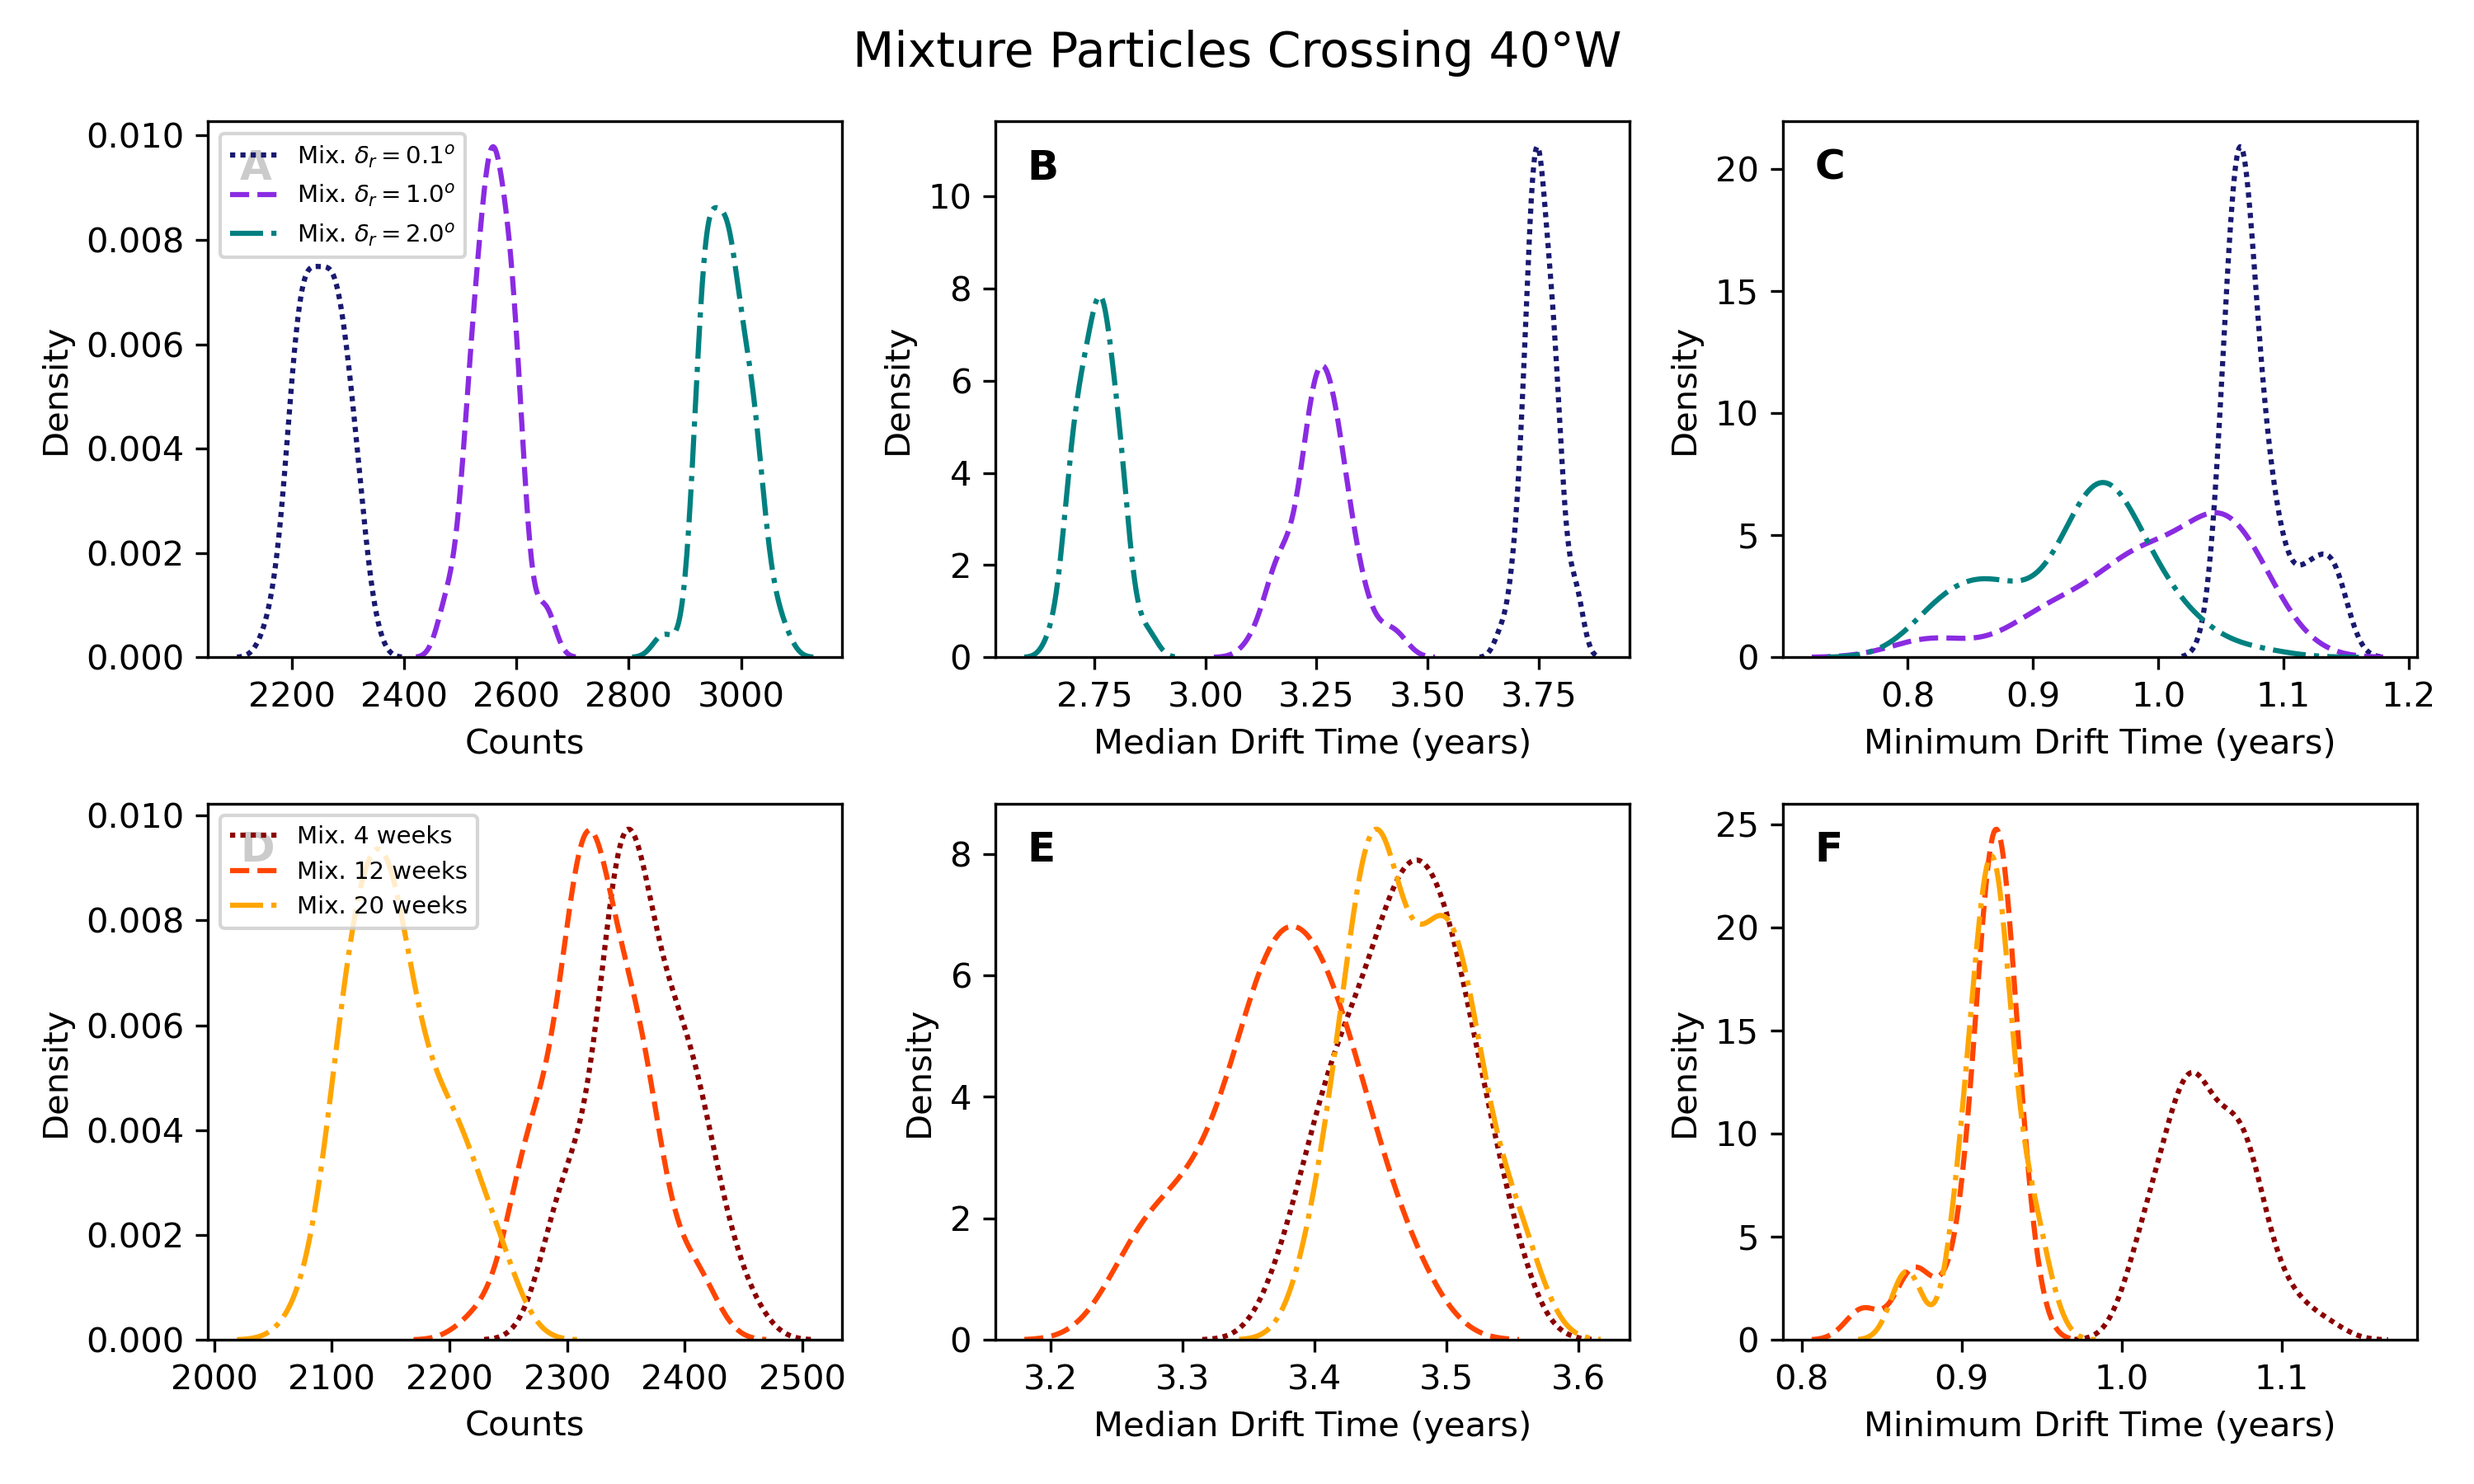
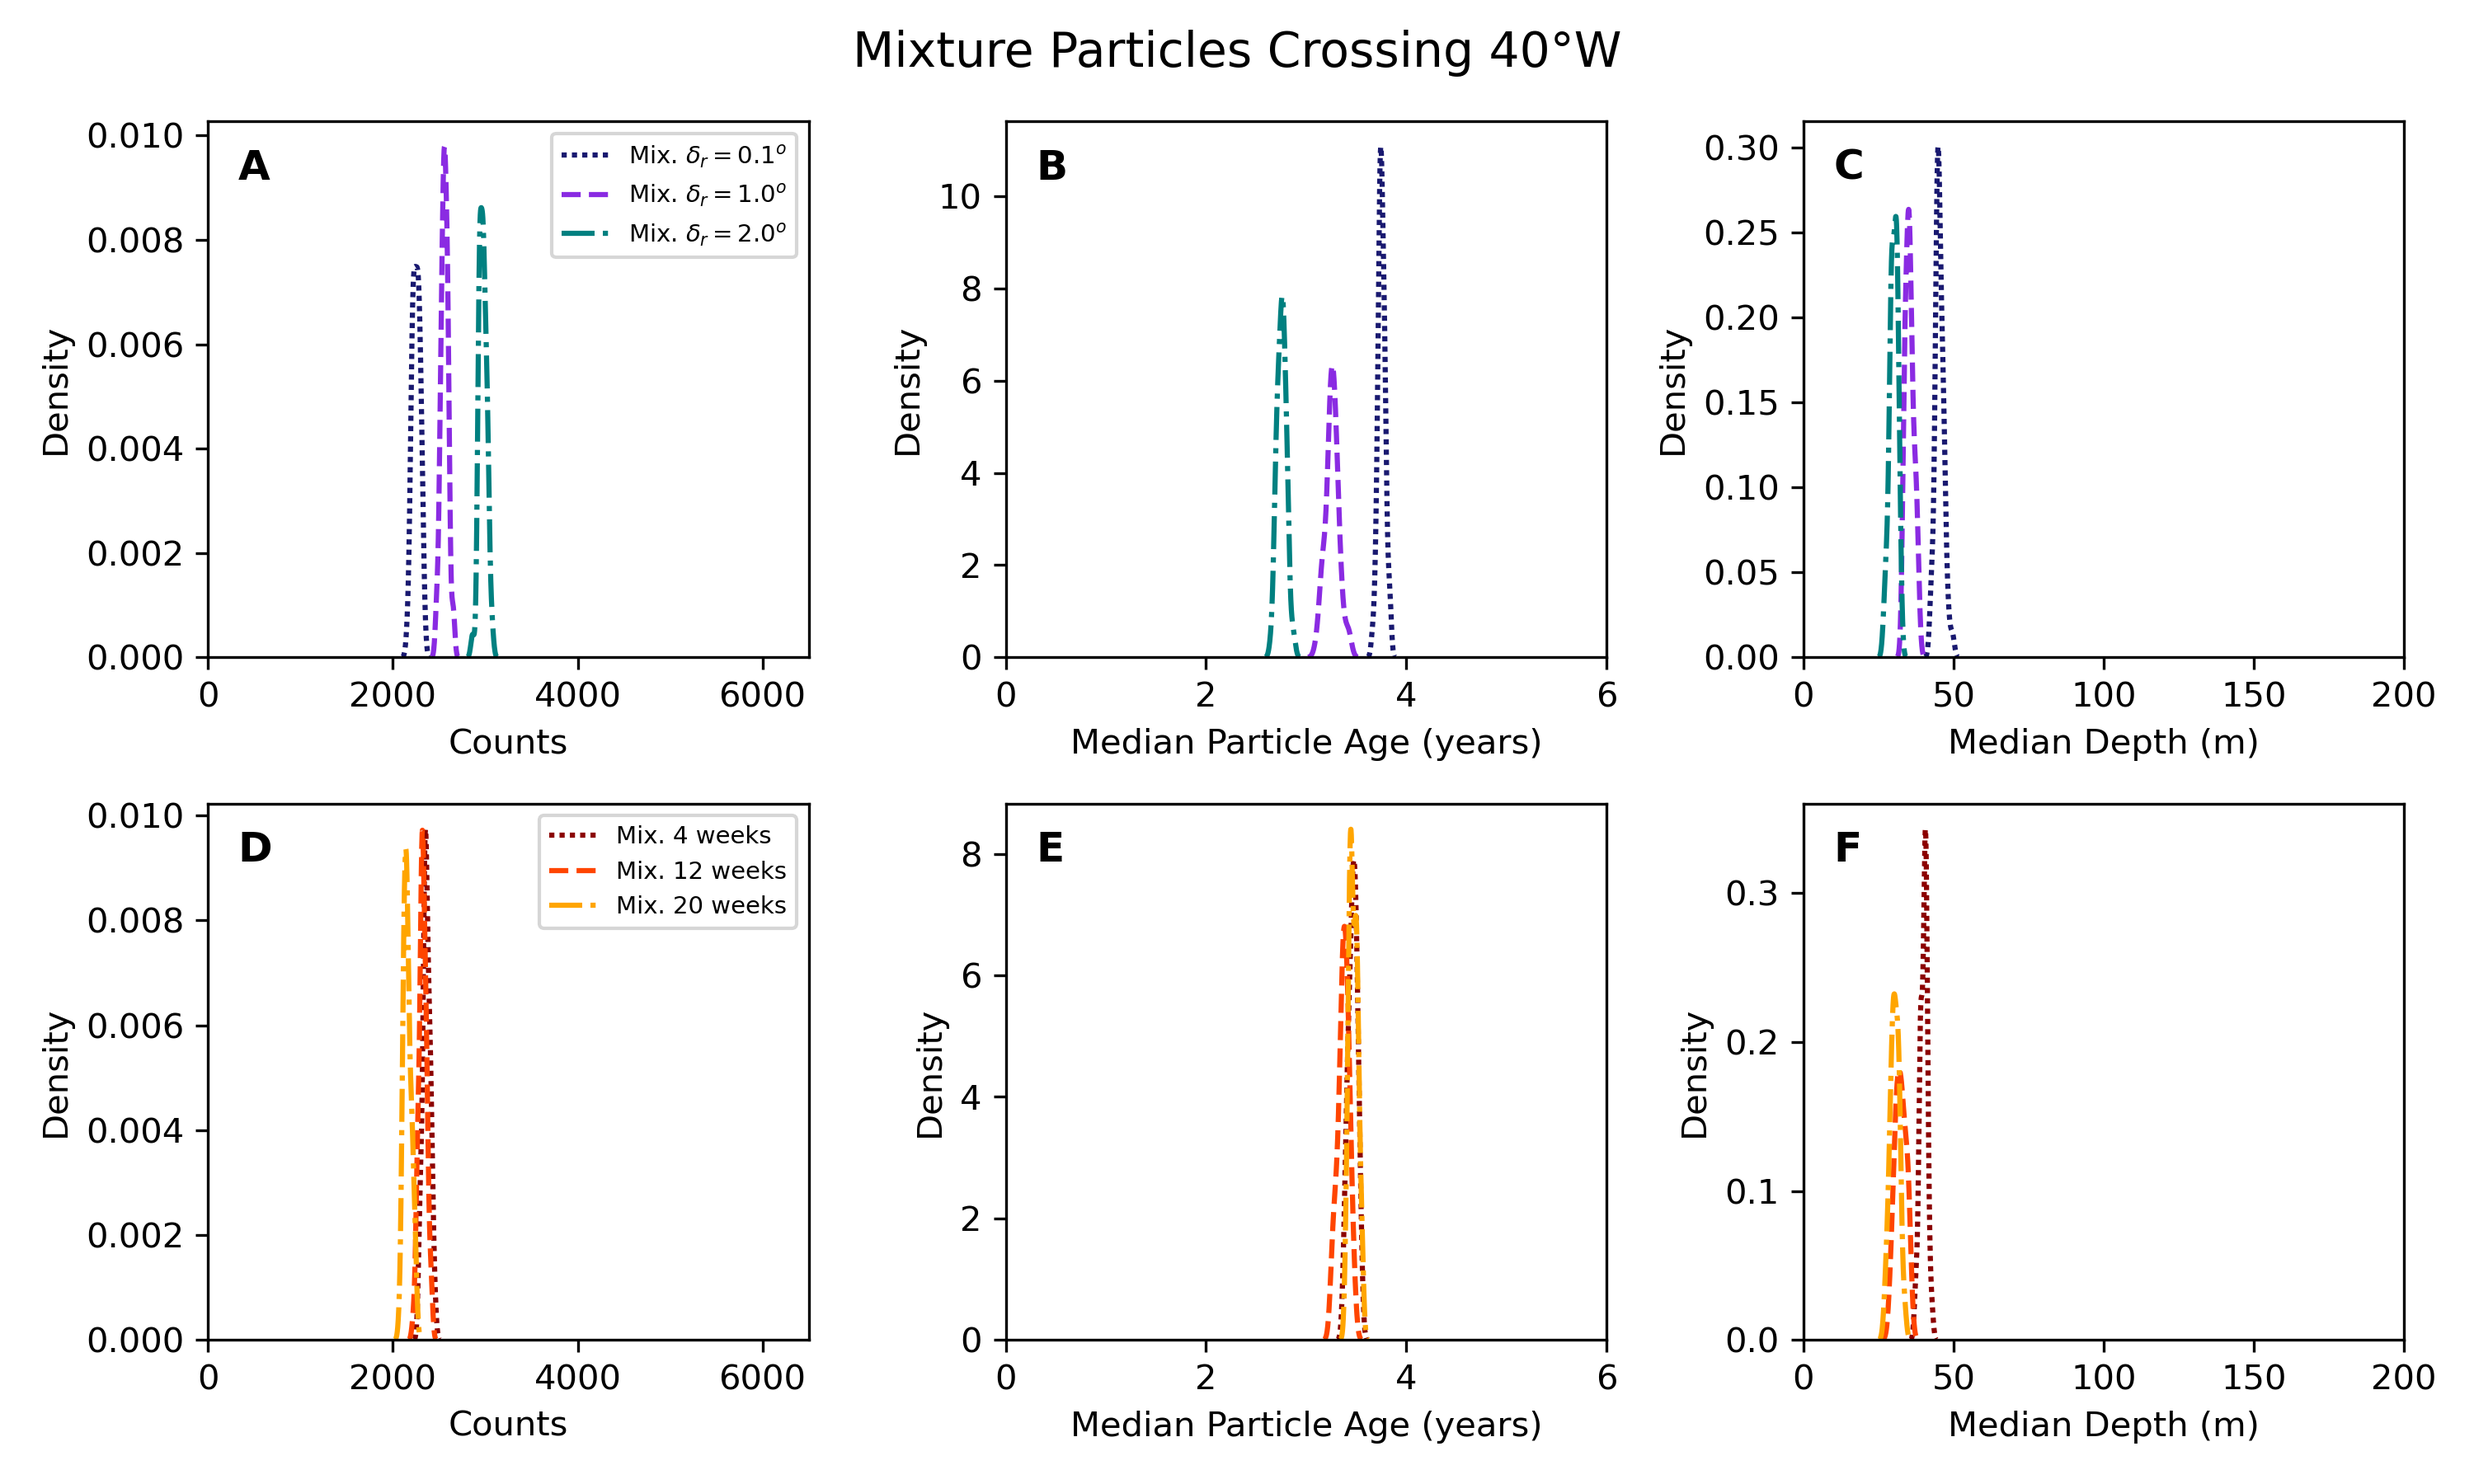
ecdf counts

diff --git a/plot_scripts/fig6--Connectivity.py b/plot_scripts/fig6--Connectivity.py
@@ -58,7 +58,7 @@ for delta_r in [0.1, 1., 2.]:
     
     sns.kdeplot(all_space[delta_r]["median_time"]/365, ax=ax[1], label=f"Spatial dr{delta_r}", clip=(0, 6),
                 fill=False, color=colors_space[j], linestyle=ls_space[j])
-    sns.kdeplot(all_space[delta_r]["min_time"]/365, ax=ax[2], label=f"Spatial dr{delta_r}", clip=(0, 6),
+    sns.kdeplot(all_space[delta_r]["median_depth"], ax=ax[2], label=f"Spatial dr{delta_r}", clip=(0, 1000),
                 fill=False, color=colors_space[j], linestyle=ls_space[j])
     j += 1
 
@@ -72,7 +72,7 @@ for week in [4, 12, 20]:
     
     sns.kdeplot(all_temp[week]["median_time"]/365, ax=ax[4], label=f"Temporal W{week}", clip=(0, 6),
                 fill=False, color=colors_temp[j], linestyle=ls_time[j])
-    sns.kdeplot(all_temp[week]["min_time"]/365, ax=ax[5], label=f"Temporal W{week}", clip=(0, 6),
+    sns.kdeplot(all_temp[week]["median_depth"], ax=ax[5], label=f"Temporal W{week}", clip=(0, 1000),
                 fill=False, color=colors_temp[j], linestyle=ls_time[j])
     j += 1
 
@@ -81,6 +81,13 @@ labels = ['A', 'B', 'C', 'D', 'E', 'F']
 for i, label in enumerate(labels):
     ax[i].text(0.05, 0.95, label, transform=ax[i].transAxes, fontsize=12, fontweight='bold', va='top', ha='left')
 
+ax[0].set_xlim(0, 6500)
+ax[3].set_xlim(0, 6500)
+ax[1].set_xlim(0, 6)
+ax[4].set_xlim(0, 6)
+ax[2].set_xlim(0, 200)
+ax[5].set_xlim(0, 200)
+
 ax[0].set_xlabel("Counts")
 ax[0].set_ylabel("Density")
 ax[0].legend(fontsize=7, shadow=False)
@@ -88,7 +95,7 @@ ax[0].legend(fontsize=7, shadow=False)
 ax[1].set_xlabel("Median Drift Time (years)")
 ax[1].set_ylabel("Density")
 
-ax[2].set_xlabel("Minimum Drift Time (years)")
+ax[2].set_xlabel("Median Depth (m)")
 ax[2].set_ylabel("Density")
 
 ax[3].set_xlabel("Counts")
@@ -98,7 +105,7 @@ ax[3].legend(fontsize=7, shadow=False)
 ax[4].set_xlabel("Median Drift Time (years)")
 ax[4].set_ylabel("Density")
 
-ax[5].set_xlabel("Minimum Drift Time (years)")
+ax[5].set_xlabel("Median Depth (m)")
 ax[5].set_ylabel("Density")
 
 # set a title
@@ -129,7 +136,7 @@ for delta_r in [0.1, 1., 2.]:
                 fill=False, color=colors_space[j], linestyle=ls_space[j])
     # sns.kdeplot(all_mix_space[delta_r]["std_time"]/365, ax=ax[5], label=f"Mix. $\delta_r = {delta_r}^o$", clip=(0, 6),
     #             fill=False, color=colors_space[j], linestyle=ls_space[j])
-    sns.kdeplot(all_mix_space[delta_r]["min_time"]/365, ax=ax[2], label=f"Mix. $\delta_r = {delta_r}^o$", clip=(0, 6),
+    sns.kdeplot(all_mix_space[delta_r]["median_depth"], ax=ax[2], label=f"Mix. $\delta_r = {delta_r}^o$", clip=(0, 1000),
                 fill=False, color=colors_space[j], linestyle=ls_space[j])
     j += 1
 
@@ -145,7 +152,7 @@ for week in [4, 12, 20]:
                 fill=False, color=colors_temp[j], linestyle=ls_time[j])
     # sns.kdeplot(all_mix_temp[week]["std_time"]/365, ax=ax[2], label=f"Mix. {week} weeks", clip=(0, 6),
     #             fill=False, color=colors_temp[j], linestyle=ls_time[j])
-    sns.kdeplot(all_mix_temp[week]["min_time"]/365, ax=ax[5], label=f"Mix. {week} weeks", clip=(0, 6),
+    sns.kdeplot(all_mix_temp[week]["median_depth"], ax=ax[5], label=f"Mix. {week} weeks", clip=(0, 1000),
                fill=False, color=colors_temp[j], linestyle=ls_time[j])
     j += 1
 
@@ -155,17 +162,24 @@ for i, label in enumerate(labels):
     ax[i].text(0.05, 0.95, label, transform=ax[i].transAxes, fontsize=12, fontweight='bold', va='top', ha='left')
     
 
+ax[0].set_xlim(0, 6500)
+ax[3].set_xlim(0, 6500)
+ax[1].set_xlim(0, 6)
+ax[4].set_xlim(0, 6)
+ax[2].set_xlim(0, 200)
+ax[5].set_xlim(0, 200)
+
 ax[0].set_xlabel("Counts")
 ax[0].set_ylabel("Density")
 ax[0].legend(fontsize=7, shadow=False)
 # ax[0].grid()
 
-ax[1].set_xlabel("Median Drift Time (years)")
+ax[1].set_xlabel("Median Particle Age (years)")
 ax[1].set_ylabel("Density")
 # ax[1].grid()
 
 # ax[2].set_xlabel("STD Drift Time (years)")
-ax[2].set_xlabel("Minimum Drift Time (years)")
+ax[2].set_xlabel("Median Depth (m)")
 ax[2].set_ylabel("Density")
 # ax[2].grid()
 
@@ -174,12 +188,12 @@ ax[3].set_ylabel("Density")
 ax[3].legend(fontsize=7, shadow=False)
 # ax[3].grid()
 
-ax[4].set_xlabel("Median Drift Time (years)")
+ax[4].set_xlabel("Median Particle Age (years)")
 ax[4].set_ylabel("Density")
 # ax[4].grid()
 
 # ax[5].set_xlabel("STD Drift Time (years)")
-ax[5].set_xlabel("Minimum Drift Time (years)")
+ax[5].set_xlabel("Median Depth (m)")
 ax[5].set_ylabel("Density")
 # ax[5].grid()
 
@@ -260,24 +274,184 @@ labels = ['A', 'B', 'C', 'D']
 for i, label in enumerate(labels):
     ax[i].text(0.05, 0.95, label, transform=ax[i].transAxes, fontsize=12, fontweight='bold', va='top', ha='left')
 
+
+ax[0].set_xlim(1500, 3500)
+ax[3].set_xlim(1500, 3500)
+ax[1].set_xlim(2, 4)
+ax[4].set_xlim(2, 4)
+ax[2].set_xlim(0, 60)
+ax[5].set_xlim(0, 60)
+
 ax[0].set_xlabel("Counts")
 ax[0].set_ylabel("Density")
 ax[0].legend(fontsize=7)
 
-ax[1].set_xlabel("Median Drift Time (years)")
+ax[1].set_xlabel("Median Particle Age (years)")
 ax[1].set_ylabel("Density")
 
 ax[2].set_xlabel("Counts")
 ax[2].set_ylabel("Density")
 ax[2].legend(fontsize=7)
 
-ax[3].set_xlabel("Median Drift Time (years)")
+ax[3].set_xlabel("Median Particle Age (years)")
 ax[3].set_ylabel("Density")
 
 plt.tight_layout()
 # save the figure
 plt.savefig("../figs/Figx-Connect_Comparisson" + criterium_string + ".png", dpi=300)
 
+#%% ECDFs of the counts and median time for temporal and spatial members
+# 
+fig, ax = plt.subplots(2, 2, figsize=(8, 6))
+ax = ax.flatten()
+# Plot CDFs for percentage of subpolar trajectories
+
+colors_space = ["midnightblue", "blueviolet", "teal"]
+ls_space = [(0, (1, 1)), '--', '-.']
+
+for j, delta_r in enumerate([0.1, 1., 2.]):
+    sns.ecdfplot(all_space[delta_r]["counts"], ax=ax[0], label=f"$\delta_r = {delta_r}^o$", 
+                 color=colors_space[j], linestyle=ls_space[j])
+    sns.ecdfplot(all_space[delta_r]["median_time"]/365, ax=ax[1], label=f"Spatial dr{delta_r}", 
+                 color=colors_space[j], linestyle=ls_space[j])
+
+for j, dr_ref in enumerate([0.1, 1., 2.]):
+    mean_counts = all_mix_space[dr_ref]["counts"].mean()
+    std_counts = all_mix_space[dr_ref]["counts"].std()
+
+    ax[0].fill_betweenx([0, 1], mean_counts-std_counts, mean_counts+std_counts,
+                        color=colors_space[j], alpha=0.3, label=f"Mix. $\delta_r = {dr_ref}^o$",
+                        edgecolor='none')
+    ax[0].set_xlim(0, 6500)
+    
+    mean_median_time = all_mix_space[dr_ref]["median_time"].mean()/365
+    std_median_time = all_mix_space[dr_ref]["median_time"].std()/365
+
+    ax[1].axvline(mean_median_time, color=colors_space[j], linestyle='-', 
+                  label=f"Mix. $\delta_r = {dr_ref}^o$", alpha=0.3)
+    ax[1].set_xlim(1, 6)
+
+colors_temp = ["darkred", "orangered", "orange"]
+ls_time = [(0, (1, 1)), '--', '-.', (0, (3, 1, 1, 1, 1, 1))]
+
+for j, week in enumerate([4, 12, 20]):
+    sns.ecdfplot(all_temp[week]["counts"], ax=ax[2], label=f"{week} weeks", color=colors_temp[j], linestyle=ls_time[j])
+    sns.ecdfplot(all_temp[week]["median_time"]/365, ax=ax[3], label=f"Temporal W{week}", color=colors_temp[j], linestyle=ls_time[j])
+
+for j, dr_ref in enumerate([4, 12, 20]):
+    mean_counts = all_mix_temp[dr_ref]["counts"].mean()
+    std_counts = all_mix_temp[dr_ref]["counts"].std()
+
+    ax[2].fill_betweenx([0, 1], mean_counts-std_counts, mean_counts+std_counts,
+                        color=colors_temp[j], alpha=0.3, label=f"Mix. {dr_ref} weeks", edgecolor='none')
+    ax[2].set_xlim(0, 6500)
+    
+    mean_median_time = all_mix_temp[dr_ref]["median_time"].mean()/365
+    std_median_time = all_mix_temp[dr_ref]["median_time"].std()/365
+
+    ax[3].axvline(mean_median_time, color=colors_temp[j], linestyle='-', 
+                  label=f"Mix. $\delta_r = {dr_ref}^o$", alpha=0.3)
+    ax[3].set_xlim(1, 6)
+
+# Add labels 'A', 'B', 'C', 'D' for each subplot in the top left corner
+labels = ['A', 'B', 'C', 'D']
+for i, label in enumerate(labels):
+    ax[i].text(0.05, 0.95, label, transform=ax[i].transAxes, fontsize=12, fontweight='bold', va='top', ha='left')
+
+ax[0].set_xlabel("Counts")
+ax[0].set_ylabel("CDF")
+ax[0].legend(fontsize=7)
+ax[0].grid(True)
+
+ax[1].set_xlabel("Median Drift Time (years)")
+ax[1].set_ylabel("ECDF")
+ax[1].grid(True)
+
+ax[2].set_xlabel("Counts")
+ax[2].set_ylabel("ECDF")
+ax[2].legend(fontsize=7, loc='lower right')
+ax[2].grid(True)
+
+ax[3].set_xlabel("Median Drift Time (years)")
+ax[3].set_ylabel("ECDF")
+ax[3].grid(True)
+
+plt.tight_layout()
+# save the figure
+
+plt.savefig("../figs/Figx-ECDF_Comparisson" + criterium_string + ".png", dpi=300)
+
+#%% COMpute ECDF curver for all_temp and all_space with and ecdf function writen by you
+def ecdf(data):
+    x = np.sort(data)
+    y = np.arange(1, len(x)+1) / len(x)
+    return x, y
+
+probss = {}
+
+for dr_ref in [0.1, 1., 2.]:
+    mean = all_mix_space[dr_ref]["counts"].mean()
+    
+    p = np.zeros(6)
+    
+    for i, delta_r in enumerate([0.1, 1., 2.]):
+        X, Y = ecdf(all_space[delta_r]["counts"])
+
+        idx = np.where(X >= mean)[0][0]
+        
+        p[i] = Y[idx]
+        
+    for i, week in enumerate([4, 12, 20], start=3):
+        X, Y = ecdf(all_temp[week]["counts"])
+
+        idx = np.where(X >= mean)[0][0]
+        
+        p[i] = Y[idx]
+        
+    probss[f'Mix $\delta_r = {dr_ref}^o$'] = p
+    
+for week_ref in [4, 12, 20]:
+    mean = all_mix_temp[week_ref]["counts"].mean()
+    
+    p = np.zeros(6)
+    
+    for i, delta_r in enumerate([0.1, 1., 2.]):
+        X, Y = ecdf(all_space[delta_r]["counts"])
+
+        idx = np.where(X >= mean)[0][0]
+        
+        p[i] = Y[idx]
+        
+    for i, week in enumerate([4, 12, 20], start=3):
+        X, Y = ecdf(all_temp[week]["counts"])
+
+        idx = np.where(X >= mean)[0][0]
+        
+        p[i] = Y[idx]
+        
+    probss[f'Mix {week_ref} weeks'] = p
+
+DF = pd.DataFrame(probss)
+DF.set_index([[r'$\delta_r = 0.1^o$', r'$\delta_r = 1^o$',  r'$\delta_r = 2^o$', '4 weeks', '12 weeks', '20 weeks']], inplace=True)
+
+fig, ax = plt.subplots(figsize=(6, 5))
+
+cmmap = "Purples_r"
+
+sns.heatmap(DF, annot=True, fmt=".2f", cmap=cmmap, ax=ax, cbar=True, vmin=0)
+
+# Rotate y tick labels 90 degrees
+ax.set_yticklabels(ax.get_yticklabels(), rotation=90, ha='center', fontsize=9)
+# Rotate x tick labels 15 degrees
+ax.set_xticklabels(ax.get_xticklabels(), rotation=15, ha='center', fontsize=9)
+
+# Add colorbar label
+cbar = ax.collections[0].colorbar
+cbar.set_label('Probability of having fewer particles than the Mixture')
+
+plt.tight_layout()
+plt.show()
+plt.savefig(f"../figs/Figx-ECDF_Probs.png", dpi=300)
 #%% Average the temporal and spatial members and mixtures and put the values in a dataframe
 
 zero_counts = np.zeros(3*4)
